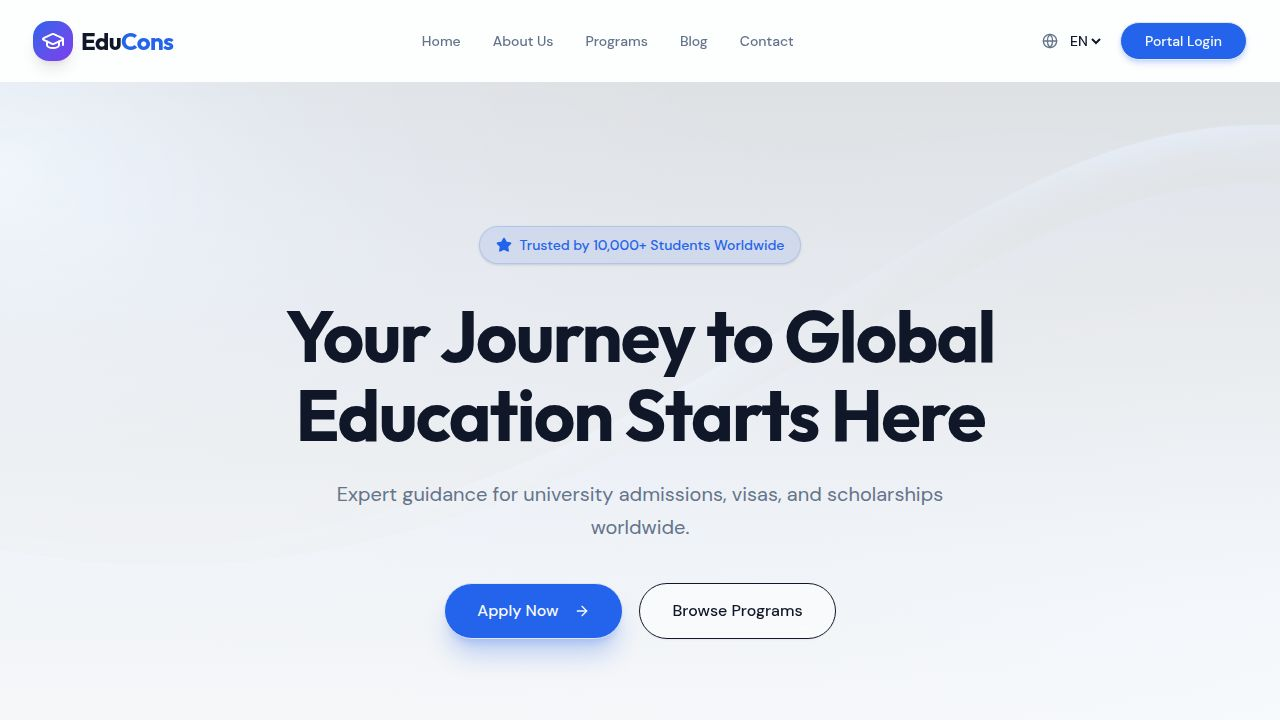
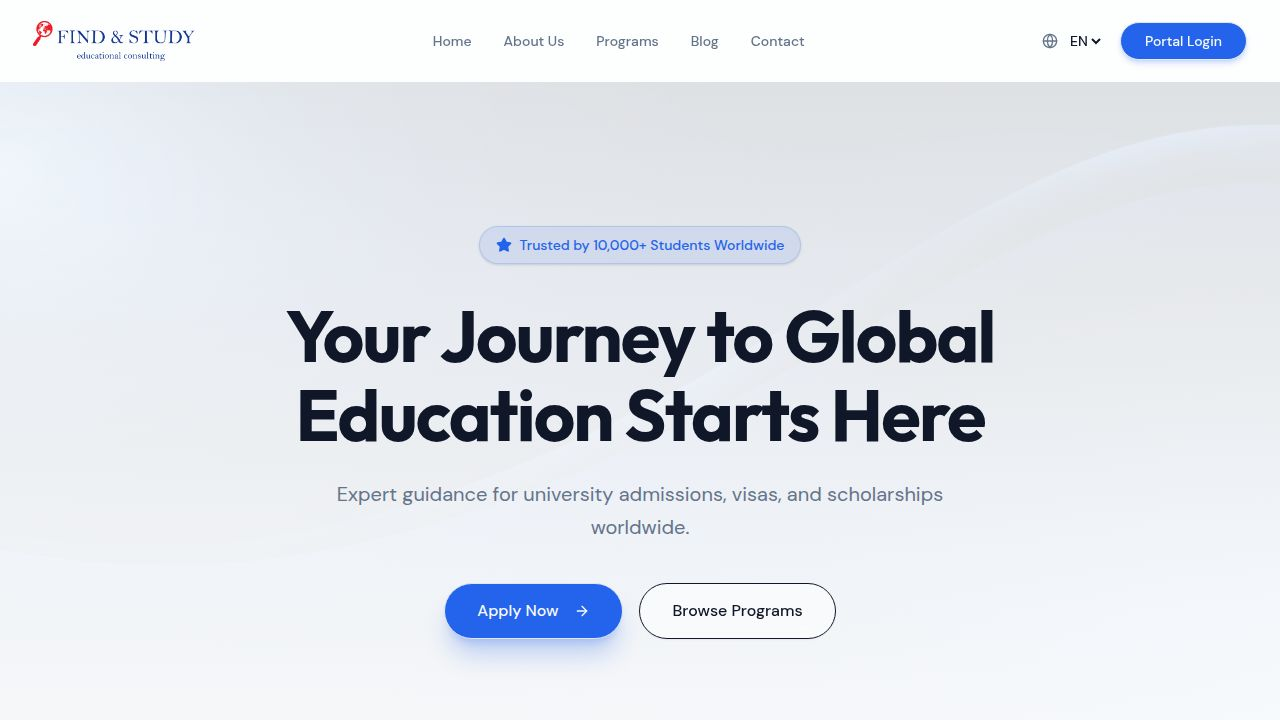
Add a dynamic catalog management system for managing program details
Introduces a new catalog options system with database schema, API endpoints, and frontend UI for managing degrees, languages, durations, fee types, intake periods, and fields. Integrates these options into the programs tab for dynamic dropdowns and badge selections.

Replit-Commit-Author: Agent
Replit-Commit-Session-Id: 44d7c9da-cbbd-4994-8f21-e495dff46a46
Replit-Commit-Checkpoint-Type: full_checkpoint
Replit-Commit-Event-Id: 110c407e-a035-45aa-9e68-8eb2c77adf0c
Replit-Commit-Screenshot-Url: https://storage.googleapis.com/screenshot-production-us-central1/8609d428-0c07-4d6f-bf8a-92b955eb83cd/44d7c9da-cbbd-4994-8f21-e495dff46a46/kAzprud
Replit-Helium-Checkpoint-Created: true

diff --git a/artifacts/edcons/src/pages/admin/Catalog.tsx b/artifacts/edcons/src/pages/admin/Catalog.tsx
@@ -11,7 +11,7 @@ import { Select, SelectContent, SelectItem, SelectTrigger, SelectValue } from "@
 import { Textarea } from "@/components/ui/textarea";
 import { Switch } from "@/components/ui/switch";
 import { useQuery, useMutation, useQueryClient } from "@tanstack/react-query";
-import { Globe, Building2, GraduationCap, BookOpen, Plus, Upload, Download, Search, Pencil, Trash2, ChevronLeft, ChevronRight, AlertTriangle, ImageIcon, Lock, ExternalLink, ChevronsUpDown, ChevronUp, ChevronDown } from "lucide-react";
+import { Globe, Building2, GraduationCap, BookOpen, Plus, Upload, Download, Search, Pencil, Trash2, ChevronLeft, ChevronRight, AlertTriangle, ImageIcon, Lock, ExternalLink, ChevronsUpDown, ChevronUp, ChevronDown, Settings2, Loader2, Check, X } from "lucide-react";
 import { useAuth } from "@/hooks/use-auth";
 import { CountryFlag } from "@/components/CountryFlag";
 
@@ -1062,6 +1062,10 @@ function ProgramsTab() {
   const universities: University[] = unisData?.data ?? [];
   const uniMap: Record<number, University> = Object.fromEntries(universities.map(u => [u.id, u]));
 
+  const { data: catOptsResp } = useQuery({ queryKey: ["catalog-options"], queryFn: () => api("/api/catalog-options") });
+  const catOpts: Record<string, CatalogOption[]> = (catOptsResp as any)?.grouped || {};
+  const activeOpts = (key: string) => (catOpts[key] || []).filter(o => o.isActive).map(o => o.value);
+
   const { data } = useQuery({
     queryKey: ["programs", page, dSearch, filterUni],
     queryFn: () => api(`/api/programs?page=${page}&limit=30${dSearch ? `&search=${encodeURIComponent(dSearch)}` : ""}${filterUni !== "all" ? `&universityId=${filterUni}` : ""}`),
@@ -1230,21 +1234,37 @@ function ProgramsTab() {
                 <Select value={form?.degree ?? ""} onValueChange={v => setForm(f => ({ ...f, degree: v }))}>
                   <SelectTrigger className="mt-1"><SelectValue placeholder="Select" /></SelectTrigger>
                   <SelectContent>
-                    {["Bachelor", "Master", "Ph.D", "Associate", "Language Course", "Foundation", "Pathway Programs"].map(d => <SelectItem key={d} value={d}>{d}</SelectItem>)}
+                    {activeOpts("degree").map(d => <SelectItem key={d} value={d}>{d}</SelectItem>)}
                   </SelectContent>
                 </Select>
               </div>
-              <div><Label>Field</Label><Input className="mt-1" placeholder="Engineering" value={form?.field ?? ""} onChange={e => setForm(f => ({ ...f, field: e.target.value }))} /></div>
+              <div>
+                <Label>Field</Label>
+                <Select value={form?.field ?? ""} onValueChange={v => setForm(f => ({ ...f, field: v }))}>
+                  <SelectTrigger className="mt-1"><SelectValue placeholder="Select" /></SelectTrigger>
+                  <SelectContent>
+                    {activeOpts("field").map(f => <SelectItem key={f} value={f}>{f}</SelectItem>)}
+                  </SelectContent>
+                </Select>
+              </div>
               <div>
                 <Label>Language</Label>
                 <Select value={form?.language ?? ""} onValueChange={v => setForm(f => ({ ...f, language: v }))}>
                   <SelectTrigger className="mt-1"><SelectValue placeholder="Select" /></SelectTrigger>
                   <SelectContent>
-                    {["English", "Turkish", "Arabic", "French", "Russian", "German", "Other"].map(l => <SelectItem key={l} value={l}>{l}</SelectItem>)}
+                    {activeOpts("language").map(l => <SelectItem key={l} value={l}>{l}</SelectItem>)}
                   </SelectContent>
                 </Select>
               </div>
-              <div><Label>Duration</Label><Input className="mt-1" placeholder="4 years" value={form?.duration ?? ""} onChange={e => setForm(f => ({ ...f, duration: e.target.value }))} /></div>
+              <div>
+                <Label>Duration</Label>
+                <Select value={form?.duration ?? ""} onValueChange={v => setForm(f => ({ ...f, duration: v }))}>
+                  <SelectTrigger className="mt-1"><SelectValue placeholder="Select" /></SelectTrigger>
+                  <SelectContent>
+                    {activeOpts("duration").map(d => <SelectItem key={d} value={d}>{d}</SelectItem>)}
+                  </SelectContent>
+                </Select>
+              </div>
               <div>
                 <Label>Annual Fee</Label>
                 <Input className="mt-1" type="number" value={form?.tuitionFee ?? ""} onChange={e => setForm(f => ({ ...f, tuitionFee: e.target.value ? Number(e.target.value) : undefined }))} />
@@ -1263,7 +1283,7 @@ function ProgramsTab() {
                 <Select value={form?.feeType ?? ""} onValueChange={v => setForm(f => ({ ...f, feeType: v || null }))}>
                   <SelectTrigger className="mt-1"><SelectValue placeholder="Select" /></SelectTrigger>
                   <SelectContent>
-                    {["Per Year", "Per Month", "Whole Study", "Per Program", "One-time Payment", "100% Scholarship"].map(t => <SelectItem key={t} value={t}>{t}</SelectItem>)}
+                    {activeOpts("fee_type").map(t => <SelectItem key={t} value={t}>{t}</SelectItem>)}
                   </SelectContent>
                 </Select>
               </div>
@@ -1302,7 +1322,26 @@ function ProgramsTab() {
               </div>
             </div>
 
-            <div><Label>Intake Periods</Label><Input className="mt-1" placeholder="Sep, Feb" value={form?.intakes ?? ""} onChange={e => setForm(f => ({ ...f, intakes: e.target.value }))} /></div>
+            <div>
+              <Label>Intake Periods</Label>
+              <div className="mt-1 flex flex-wrap gap-1.5">
+                {activeOpts("intake").map(ip => {
+                  const selected = (form?.intakes ?? "").split(",").map(s => s.trim()).filter(Boolean).includes(ip);
+                  return (
+                    <Badge
+                      key={ip}
+                      variant={selected ? "default" : "outline"}
+                      className={`cursor-pointer text-xs ${selected ? "" : "opacity-60 hover:opacity-100"}`}
+                      onClick={() => {
+                        const current = (form?.intakes ?? "").split(",").map(s => s.trim()).filter(Boolean);
+                        const next = selected ? current.filter(c => c !== ip) : [...current, ip];
+                        setForm(f => ({ ...f, intakes: next.join(", ") }));
+                      }}
+                    >{ip}</Badge>
+                  );
+                })}
+              </div>
+            </div>
             <div><Label>Requirements</Label><Textarea className="mt-1" rows={2} placeholder="IELTS 6.0, GPA 3.0…" value={form?.requirements ?? ""} onChange={e => setForm(f => ({ ...f, requirements: e.target.value }))} /></div>
             <div className="flex items-center justify-between">
               <Label>Active</Label>
@@ -1346,6 +1385,163 @@ function ProgramsTab() {
 }
 
 /* ═══════════════════════════════════════════════════════════
+   OPTIONS TAB
+══════════════════════════════════════════════════════════ */
+
+type CatalogOption = { id: number; category: string; value: string; sortOrder: number; isActive: boolean };
+
+const OPTION_CATEGORIES = [
+  { key: "degree", label: "Degree", description: "Academic degree types (Bachelor, Master, etc.)" },
+  { key: "language", label: "Language", description: "Languages of instruction" },
+  { key: "duration", label: "Duration", description: "Program duration options" },
+  { key: "fee_type", label: "Fee Type", description: "Fee calculation types" },
+  { key: "intake", label: "Intake Periods", description: "Enrollment periods" },
+  { key: "field", label: "Field", description: "Academic fields / study areas" },
+];
+
+function OptionsTab() {
+  const [activeCategory, setActiveCategory] = useState(OPTION_CATEGORIES[0].key);
+  const [editItem, setEditItem] = useState<CatalogOption | null>(null);
+  const [newValue, setNewValue] = useState("");
+  const [addMode, setAddMode] = useState(false);
+  const [saving, setSaving] = useState(false);
+  const qc = useQueryClient();
+
+  const { data: optionsResp, isLoading } = useQuery({
+    queryKey: ["catalog-options"],
+    queryFn: () => api("/api/catalog-options"),
+  });
+
+  const grouped: Record<string, CatalogOption[]> = (optionsResp as any)?.grouped || {};
+  const items = grouped[activeCategory] || [];
+  const catMeta = OPTION_CATEGORIES.find(c => c.key === activeCategory)!;
+
+  async function handleAdd() {
+    if (!newValue.trim()) return;
+    setSaving(true);
+    try {
+      await api("/api/catalog-options", {
+        method: "POST",
+        headers: { "Content-Type": "application/json" },
+        body: JSON.stringify({ category: activeCategory, value: newValue.trim(), sortOrder: items.length + 1 }),
+      });
+      setNewValue("");
+      setAddMode(false);
+      qc.invalidateQueries({ queryKey: ["catalog-options"] });
+    } catch { }
+    setSaving(false);
+  }
+
+  async function handleUpdate(item: CatalogOption, updates: Partial<CatalogOption>) {
+    await api(`/api/catalog-options/${item.id}`, {
+      method: "PATCH",
+      headers: { "Content-Type": "application/json" },
+      body: JSON.stringify(updates),
+    });
+    qc.invalidateQueries({ queryKey: ["catalog-options"] });
+    setEditItem(null);
+  }
+
+  async function handleDelete(id: number) {
+    if (!confirm("Are you sure you want to delete this option?")) return;
+    await api(`/api/catalog-options/${id}`, { method: "DELETE" });
+    qc.invalidateQueries({ queryKey: ["catalog-options"] });
+  }
+
+  if (isLoading) return <div className="flex items-center justify-center py-12"><Loader2 className="w-6 h-6 animate-spin text-muted-foreground" /></div>;
+
+  return (
+    <div className="grid grid-cols-1 md:grid-cols-[240px_1fr] gap-4">
+      <div className="space-y-1">
+        {OPTION_CATEGORIES.map(cat => (
+          <button
+            key={cat.key}
+            onClick={() => { setActiveCategory(cat.key); setAddMode(false); setEditItem(null); }}
+            className={`w-full text-left px-3 py-2.5 rounded-lg text-sm font-medium transition-colors ${activeCategory === cat.key ? "bg-primary/10 text-primary" : "hover:bg-muted text-muted-foreground hover:text-foreground"}`}
+          >
+            {cat.label}
+            <span className="ml-2 text-xs opacity-60">({(grouped[cat.key] || []).length})</span>
+          </button>
+        ))}
+      </div>
+
+      <div className="border rounded-lg">
+        <div className="flex items-center justify-between px-4 py-3 border-b bg-muted/30">
+          <div>
+            <h3 className="text-sm font-semibold">{catMeta.label}</h3>
+            <p className="text-xs text-muted-foreground">{catMeta.description}</p>
+          </div>
+          <Button size="sm" onClick={() => { setAddMode(true); setNewValue(""); }} disabled={addMode}>
+            <Plus className="w-4 h-4 mr-1" /> Add
+          </Button>
+        </div>
+
+        {addMode && (
+          <div className="flex items-center gap-2 px-4 py-3 border-b bg-green-50/50">
+            <Input
+              autoFocus
+              value={newValue}
+              onChange={e => setNewValue(e.target.value)}
+              onKeyDown={e => { if (e.key === "Enter") handleAdd(); if (e.key === "Escape") setAddMode(false); }}
+              placeholder={`Enter new ${catMeta.label.toLowerCase()} value...`}
+              className="flex-1"
+            />
+            <Button size="sm" onClick={handleAdd} disabled={saving || !newValue.trim()}>
+              {saving ? <Loader2 className="w-4 h-4 animate-spin" /> : <Check className="w-4 h-4" />}
+            </Button>
+            <Button size="sm" variant="ghost" onClick={() => setAddMode(false)}>
+              <X className="w-4 h-4" />
+            </Button>
+          </div>
+        )}
+
+        <div className="divide-y">
+          {items.length === 0 && !addMode && (
+            <p className="text-center text-muted-foreground text-sm py-8">No options yet. Click "Add" to create one.</p>
+          )}
+          {items.map((item, idx) => (
+            <div key={item.id} className="flex items-center gap-3 px-4 py-2.5 hover:bg-muted/30 group">
+              <span className="text-xs text-muted-foreground w-6 text-center">{idx + 1}</span>
+              {editItem?.id === item.id ? (
+                <Input
+                  autoFocus
+                  className="flex-1 h-8"
+                  value={editItem.value}
+                  onChange={e => setEditItem({ ...editItem, value: e.target.value })}
+                  onKeyDown={e => {
+                    if (e.key === "Enter") handleUpdate(item, { value: editItem.value });
+                    if (e.key === "Escape") setEditItem(null);
+                  }}
+                />
+              ) : (
+                <span className={`flex-1 text-sm ${!item.isActive ? "line-through text-muted-foreground" : ""}`}>{item.value}</span>
+              )}
+              {!item.isActive && <Badge variant="outline" className="text-[10px] bg-muted">Inactive</Badge>}
+              <div className="flex items-center gap-1 opacity-0 group-hover:opacity-100 transition-opacity">
+                {editItem?.id === item.id ? (
+                  <>
+                    <Button size="icon" variant="ghost" className="h-7 w-7" onClick={() => handleUpdate(item, { value: editItem.value })}><Check className="w-3.5 h-3.5 text-green-600" /></Button>
+                    <Button size="icon" variant="ghost" className="h-7 w-7" onClick={() => setEditItem(null)}><X className="w-3.5 h-3.5" /></Button>
+                  </>
+                ) : (
+                  <>
+                    <Button size="icon" variant="ghost" className="h-7 w-7" onClick={() => setEditItem({ ...item })}><Pencil className="w-3.5 h-3.5" /></Button>
+                    <Button size="icon" variant="ghost" className="h-7 w-7" onClick={() => handleUpdate(item, { isActive: !item.isActive })}>
+                      {item.isActive ? <Lock className="w-3.5 h-3.5 text-orange-500" /> : <Check className="w-3.5 h-3.5 text-green-600" />}
+                    </Button>
+                    <Button size="icon" variant="ghost" className="h-7 w-7" onClick={() => handleDelete(item.id)}><Trash2 className="w-3.5 h-3.5 text-destructive" /></Button>
+                  </>
+                )}
+              </div>
+            </div>
+          ))}
+        </div>
+      </div>
+    </div>
+  );
+}
+
+/* ═══════════════════════════════════════════════════════════
    MAIN PAGE
 ══════════════════════════════════════════════════════════ */
 export default function AdminCatalog() {
@@ -1354,6 +1550,7 @@ export default function AdminCatalog() {
     { value: "cities", label: "Cities", icon: Building2 },
     { value: "universities", label: "Universities", icon: GraduationCap },
     { value: "programs", label: "Programs", icon: BookOpen },
+    { value: "options", label: "Options", icon: Settings2 },
   ];
 
   return (
@@ -1363,7 +1560,7 @@ export default function AdminCatalog() {
         <p className="text-muted-foreground text-sm mt-1">Manage countries, cities, universities and programs</p>
       </div>
       <Tabs defaultValue="countries" className="space-y-4">
-        <TabsList className="grid w-full grid-cols-4">
+        <TabsList className="grid w-full grid-cols-5">
           {tabs.map(t => (
             <TabsTrigger key={t.value} value={t.value} className="flex items-center gap-1.5">
               <t.icon className="h-4 w-4" />
@@ -1409,6 +1606,16 @@ export default function AdminCatalog() {
               <p className="text-xs text-muted-foreground mt-0.5">Manage university programs, fees and commission rates</p>
             </div>
             <ProgramsTab />
+          </Card>
+        </TabsContent>
+
+        <TabsContent value="options">
+          <Card className="p-4">
+            <div className="mb-4">
+              <h2 className="text-base font-semibold flex items-center gap-2"><Settings2 className="h-4 w-4 text-primary" />Catalog Options</h2>
+              <p className="text-xs text-muted-foreground mt-0.5">Manage dropdown values used across programs (Degree, Language, Duration, Fee Type, Intakes, Field)</p>
+            </div>
+            <OptionsTab />
           </Card>
         </TabsContent>
       </Tabs>

diff --git a/artifacts/api-server/src/routes/catalog.ts b/artifacts/api-server/src/routes/catalog.ts
@@ -1,6 +1,6 @@
 import { Router, type IRouter } from "express";
-import { db, countriesTable, citiesTable, universitiesTable, programsTable } from "@workspace/db";
-import { eq, ilike, sql, and } from "drizzle-orm";
+import { db, countriesTable, citiesTable, universitiesTable, programsTable, catalogOptionsTable } from "@workspace/db";
+import { eq, ilike, sql, and, asc } from "drizzle-orm";
 import { requireAuth, requireRole, logAudit } from "../lib/auth";
 import { MANAGER_ROLES } from "../lib/roles";
 
@@ -182,6 +182,48 @@ router.post("/programs/bulk", requireAuth, requireRole(...MANAGER_ROLES), async 
   const inserted = await db.insert(programsTable).values(values).returning();
   await logAudit(req.user!.id, "bulk_import_programs", "program", undefined, { count: inserted.length }, req.ip);
   res.json({ inserted: inserted.length, skipped: rows.length - inserted.length });
+});
+
+/* ─── CATALOG OPTIONS ──────────────────────────────────────── */
+
+const VALID_CATEGORIES = ["degree", "language", "duration", "fee_type", "intake", "field"];
+
+router.get("/catalog-options", async (_req, res): Promise<void> => {
+  const data = await db.select().from(catalogOptionsTable).orderBy(asc(catalogOptionsTable.category), asc(catalogOptionsTable.sortOrder));
+  const grouped: Record<string, typeof data> = {};
+  for (const row of data) {
+    if (!grouped[row.category]) grouped[row.category] = [];
+    grouped[row.category].push(row);
+  }
+  res.json({ data, grouped });
+});
+
+router.post("/catalog-options", requireAuth, requireRole(...MANAGER_ROLES), async (req, res): Promise<void> => {
+  const { category, value, sortOrder = 0 } = req.body;
+  if (!category || !value) { res.status(400).json({ error: "category and value are required" }); return; }
+  if (!VALID_CATEGORIES.includes(category)) { res.status(400).json({ error: "Invalid category" }); return; }
+  const [opt] = await db.insert(catalogOptionsTable).values({ category, value, sortOrder }).returning();
+  await logAudit(req.user!.id, "create_catalog_option", "catalog_option", opt.id, { category, value }, req.ip);
+  res.status(201).json(opt);
+});
+
+router.patch("/catalog-options/:id", requireAuth, requireRole(...MANAGER_ROLES), async (req, res): Promise<void> => {
+  const id = parseInt(req.params.id, 10);
+  const { value, sortOrder, isActive } = req.body;
+  const updates: Record<string, unknown> = {};
+  if (value !== undefined) updates.value = value;
+  if (sortOrder !== undefined) updates.sortOrder = sortOrder;
+  if (isActive !== undefined) updates.isActive = isActive;
+  const [opt] = await db.update(catalogOptionsTable).set(updates).where(eq(catalogOptionsTable.id, id)).returning();
+  if (!opt) { res.status(404).json({ error: "Not found" }); return; }
+  res.json(opt);
+});
+
+router.delete("/catalog-options/:id", requireAuth, requireRole(...MANAGER_ROLES), async (req, res): Promise<void> => {
+  const id = parseInt(req.params.id, 10);
+  await db.delete(catalogOptionsTable).where(eq(catalogOptionsTable.id, id));
+  await logAudit(req.user!.id, "delete_catalog_option", "catalog_option", id, {}, req.ip);
+  res.sendStatus(204);
 });
 
 export default router;

diff --git a/lib/db/src/schema/catalog.ts b/lib/db/src/schema/catalog.ts
@@ -28,3 +28,15 @@ export type Country = typeof countriesTable.$inferSelect;
 export const insertCitySchema = createInsertSchema(citiesTable).omit({ id: true, createdAt: true, updatedAt: true });
 export type InsertCity = z.infer<typeof insertCitySchema>;
 export type City = typeof citiesTable.$inferSelect;
+
+export const catalogOptionsTable = pgTable("catalog_options", {
+  id: serial("id").primaryKey(),
+  category: text("category").notNull(),
+  value: text("value").notNull(),
+  sortOrder: integer("sort_order").notNull().default(0),
+  isActive: boolean("is_active").notNull().default(true),
+  createdAt: timestamp("created_at", { withTimezone: true }).notNull().defaultNow(),
+  updatedAt: timestamp("updated_at", { withTimezone: true }).notNull().defaultNow().$onUpdate(() => new Date()),
+});
+
+export type CatalogOption = typeof catalogOptionsTable.$inferSelect;

diff --git a/replit.md b/replit.md
@@ -72,6 +72,15 @@ The project is structured as a pnpm monorepo with separate packages for the API 
 - **Security:** Secrets (passwords, tokens, API keys) are masked on read (first 4 chars + dots). On save, masked values are skipped so existing secrets aren't overwritten.
 - **File:** `artifacts/api-server/src/routes/integrations.ts`, `artifacts/edcons/src/components/IntegrationsManager.tsx`
 
+## Catalog Options
+
+- **DB table:** `catalog_options` (id serial, category text, value text, sort_order int, is_active bool, timestamps). Unique index on `(category, value)`.
+- **Categories:** `degree`, `language`, `duration`, `fee_type`, `intake`, `field`
+- **API routes:** `GET /api/catalog-options` (public, returns grouped), `POST /api/catalog-options` (admin), `PATCH /api/catalog-options/:id`, `DELETE /api/catalog-options/:id`
+- **Frontend:** "Options" tab in Catalog Management page — sidebar navigation for categories, inline add/edit/delete/activate/deactivate per item.
+- **Integration:** Programs tab dropdowns (Degree, Language, Duration, Fee Type, Field) and Intake Periods badges all pull from `catalog-options` API dynamically instead of hardcoded values.
+- **Files:** `lib/db/src/schema/catalog.ts` (catalogOptionsTable), `artifacts/api-server/src/routes/catalog.ts`, `artifacts/edcons/src/pages/admin/Catalog.tsx` (OptionsTab + ProgramsTab integration)
+
 ## Student Profile
 
 - **Photo System:** Student photos stored as documents with `type = "photo"` in the `documents` table. Profile page displays latest photo (sorted by `createdAt` desc) as circular avatar in header. Hover reveals camera (upload) and download buttons. Photo upload creates a new document record with auto-naming `photo-firstname-lastname`.